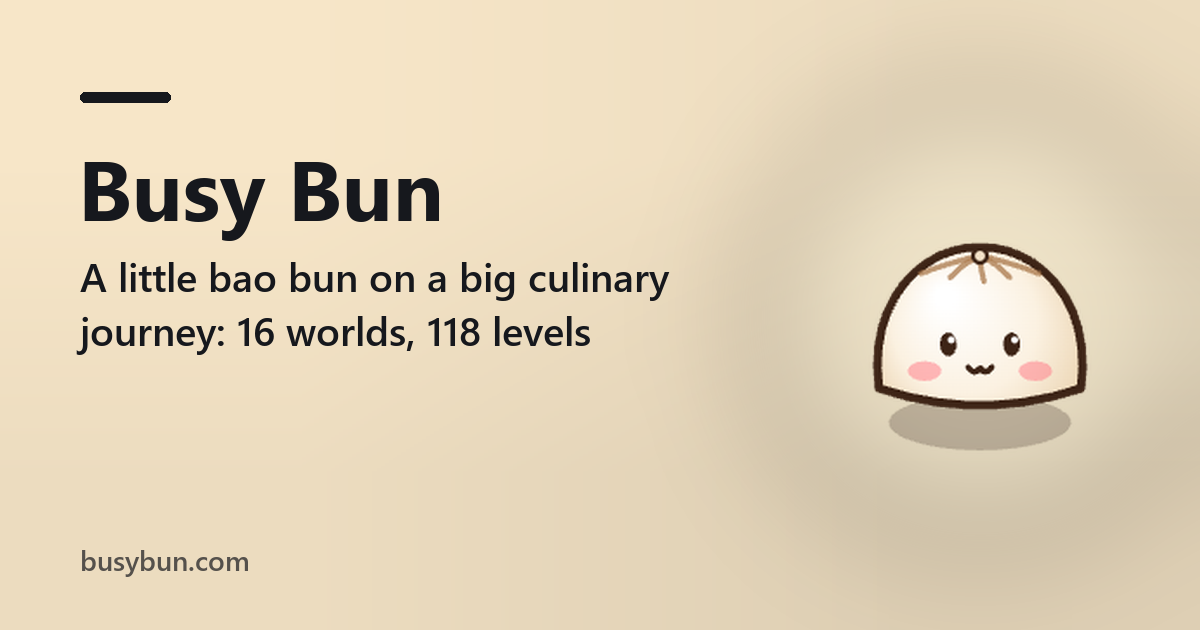
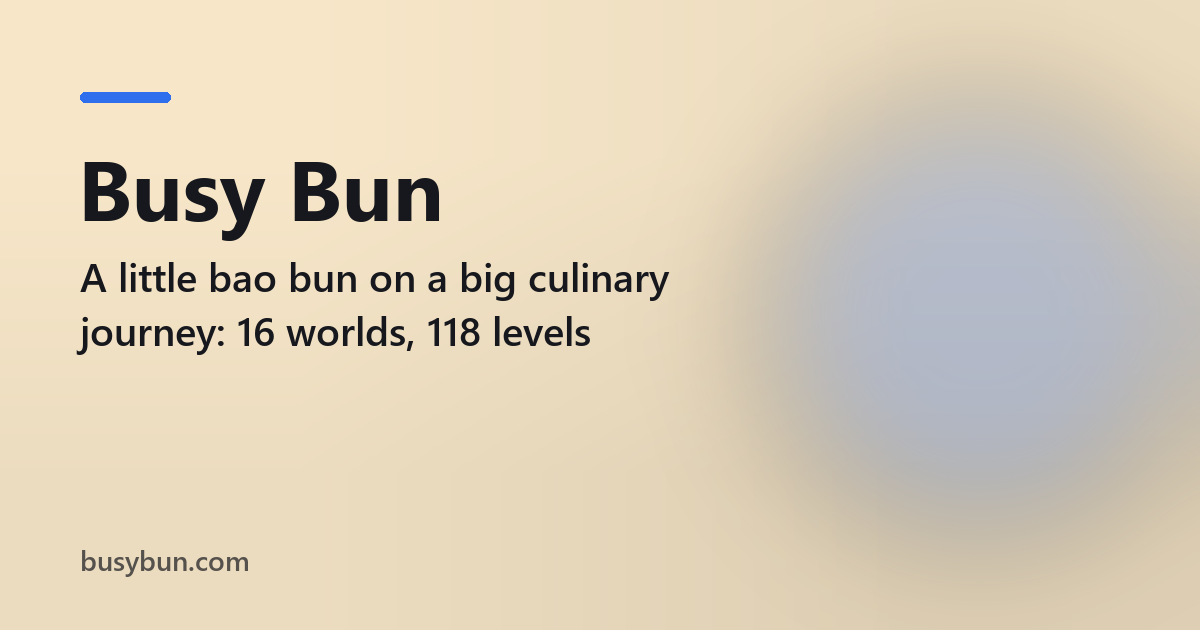
SEO: valid schema.org fields (availableLanguage on ServiceChannel, no browserRequirements on games)

Changed region(s): [[0.6475, 0.181, 1.0, 0.8143], [0.0617, 0.1206, 0.1542, 0.181]]

diff --git a/server_code/seo_routes.py b/server_code/seo_routes.py
@@ -59,12 +59,12 @@ SEO = {
  ],
  "site": "https://busybun.com",
  "updated": "2026-11-09",
- "icon": "busybun.png",
+ "icon": "icon-512.png",
  "colors": {
   "bg": "#f7e6c8",
   "ink": "#16181d",
-  "brand": "#fcfce4",
-  "on": "#16181d"
+  "brand": "#2f6fed",
+  "on": "#ffffff"
  }
 }
 
@@ -147,18 +147,25 @@ def _ld(o):
         app["serviceType"] = s.get("service_type", s.get("tagline", s["title"]))
         app["provider"] = {"@id": "https://arkvital.com/#org"}
         app["areaServed"] = "Worldwide"
-        app["availableChannel"] = {"@type": "ServiceChannel", "serviceUrl": o + "/", "name": "Web browser"}
+        # availableLanguage belongs on the channel (schema.org has no Service.availableLanguage)
+        app["availableChannel"] = {"@type": "ServiceChannel", "serviceUrl": o + "/", "name": "Web browser",
+                                   "availableLanguage": s.get("lang", "en")}
         del app["inLanguage"], app["publisher"], app["keywords"]
-        app["availableLanguage"] = s.get("lang", "en")
+    if app["@type"] == "ProfessionalService":
+        # an Organization: knowsLanguage, not inLanguage (a CreativeWork field)
+        app["knowsLanguage"] = app.pop("inLanguage")
+        del app["publisher"]
     if app["@type"] in ("WebApplication", "VideoGame"):
         app["applicationCategory"] = s.get("category", "WebApplication")
         app["operatingSystem"] = "Any (web browser)"
+    if app["@type"] == "WebApplication":
         app["browserRequirements"] = "Requires JavaScript and a modern web browser"
+    if app["@type"] in ("WebApplication", "VideoGame"):
         if s.get("features"):
             app["featureList"] = s["features"]
     if s.get("free"):
         app["offers"] = {"@type": "Offer", "price": "0", "priceCurrency": "CAD"}
-    if s.get("audience"):
+    if s.get("audience") and app["@type"] != "ProfessionalService":
         app["audience"] = {"@type": "Audience", "audienceType": s["audience"]}
     page = {"@type": "AboutPage", "@id": o + "/about#page", "url": o + "/about", "name": "About " + s["name"],
             "about": {"@id": o + "/#app"}, "isPartOf": {"@id": o + "/#site"}}
